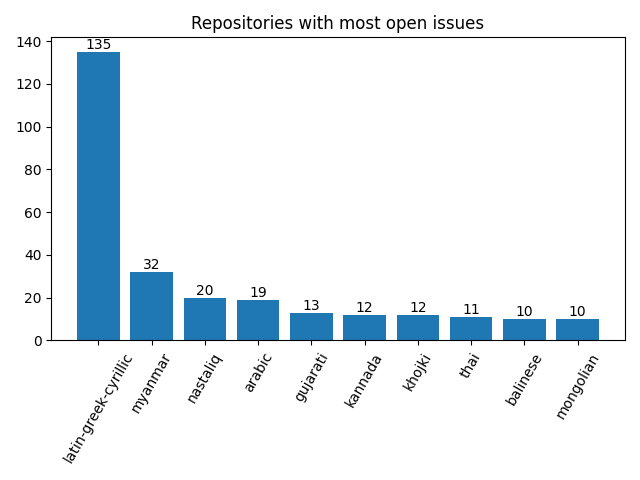
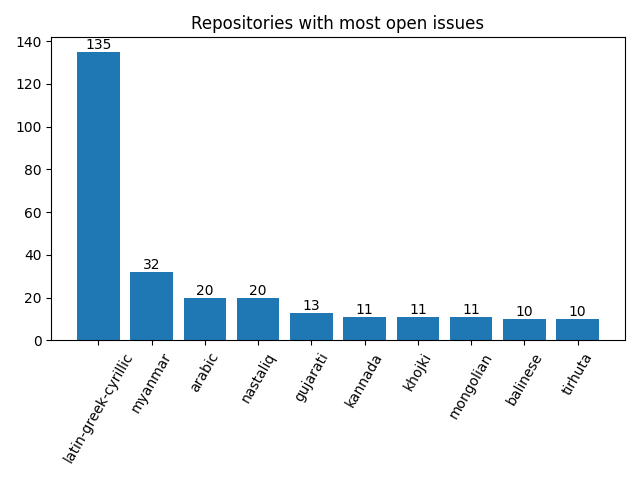
Apply automatic changes

diff --git a/docs/analytics.html b/docs/analytics.html
@@ -99,8 +99,8 @@ td .material-icons { display:inline-flex; vertical-align: top; font-size:1.1rem;
 						</tr>
 						<tr>
 							<td>Jul</td>
-							<td>4</td>
-							<td>0</td>
+							<td>12</td>
+							<td>26</td>
 						</tr>
 					</table>
 				</div>
@@ -130,15 +130,15 @@ td .material-icons { display:inline-flex; vertical-align: top; font-size:1.1rem;
 						</tr>
 						<tr>
 							<td>
-								<a href="http://github.com/notofonts/nastaliq/issues">nastaliq</a>
+								<a href="http://github.com/notofonts/arabic/issues">arabic</a>
 							</td>
 							<td>20</td>
 						</tr>
 						<tr>
 							<td>
-								<a href="http://github.com/notofonts/arabic/issues">arabic</a>
+								<a href="http://github.com/notofonts/nastaliq/issues">nastaliq</a>
 							</td>
-							<td>19</td>
+							<td>20</td>
 						</tr>
 						<tr>
 							<td>
@@ -150,17 +150,17 @@ td .material-icons { display:inline-flex; vertical-align: top; font-size:1.1rem;
 							<td>
 								<a href="http://github.com/notofonts/kannada/issues">kannada</a>
 							</td>
-							<td>12</td>
+							<td>11</td>
 						</tr>
 						<tr>
 							<td>
 								<a href="http://github.com/notofonts/khojki/issues">khojki</a>
 							</td>
-							<td>12</td>
+							<td>11</td>
 						</tr>
 						<tr>
 							<td>
-								<a href="http://github.com/notofonts/thai/issues">thai</a>
+								<a href="http://github.com/notofonts/mongolian/issues">mongolian</a>
 							</td>
 							<td>11</td>
 						</tr>
@@ -172,7 +172,7 @@ td .material-icons { display:inline-flex; vertical-align: top; font-size:1.1rem;
 						</tr>
 						<tr>
 							<td>
-								<a href="http://github.com/notofonts/mongolian/issues">mongolian</a>
+								<a href="http://github.com/notofonts/tirhuta/issues">tirhuta</a>
 							</td>
 							<td>10</td>
 						</tr>
@@ -191,19 +191,19 @@ td .material-icons { display:inline-flex; vertical-align: top; font-size:1.1rem;
 				<tr>
 					<td>1</td>
 					<td>
-						<a href="http://github.com/notofonts/bamum/issues">bamum</a>,  						<a href="http://github.com/notofonts/brahmi/issues">brahmi</a>,  						<a href="http://github.com/notofonts/canadian-aboriginal/issues">canadian-aboriginal</a>,  						<a href="http://github.com/notofonts/coptic/issues">coptic</a>,  						<a href="http://github.com/notofonts/deseret/issues">deseret</a>,  						<a href="http://github.com/notofonts/duployan/issues">duployan</a>,  						<a href="http://github.com/notofonts/elbasan/issues">elbasan</a>,  						<a href="http://github.com/notofonts/ethiopic/issues">ethiopic</a>,  						<a href="http://github.com/notofonts/gunjala-gondi/issues">gunjala-gondi</a>,  						<a href="http://github.com/notofonts/hanunoo/issues">hanunoo</a>,  						<a href="http://github.com/notofonts/kharoshthi/issues">kharoshthi</a>,  						<a href="http://github.com/notofonts/khudawadi/issues">khudawadi</a>,  						<a href="http://github.com/notofonts/meetei-mayek/issues">meetei-mayek</a>,  						<a href="http://github.com/notofonts/miao/issues">miao</a>,  						<a href="http://github.com/notofonts/multani/issues">multani</a>,  						<a href="http://github.com/notofonts/nko/issues">nko</a>,  						<a href="http://github.com/notofonts/old-hungarian-ui/issues">old-hungarian-ui</a>,  						<a href="http://github.com/notofonts/old-italic/issues">old-italic</a>,  						<a href="http://github.com/notofonts/pahawh-hmong/issues">pahawh-hmong</a>,  						<a href="http://github.com/notofonts/rejang/issues">rejang</a>,  						<a href="http://github.com/notofonts/saurashtra/issues">saurashtra</a>,  						<a href="http://github.com/notofonts/sign-writing/issues">sign-writing</a>,  						<a href="http://github.com/notofonts/sogdian/issues">sogdian</a>,  						<a href="http://github.com/notofonts/tagalog/issues">tagalog</a>,  						<a href="http://github.com/notofonts/tai-le/issues">tai-le</a>,  						<a href="http://github.com/notofonts/tai-tham/issues">tai-tham</a>,  						<a href="http://github.com/notofonts/takri/issues">takri</a>,  						<a href="http://github.com/notofonts/tangsa/issues">tangsa</a> 
+						<a href="http://github.com/notofonts/bamum/issues">bamum</a>,  						<a href="http://github.com/notofonts/brahmi/issues">brahmi</a>,  						<a href="http://github.com/notofonts/canadian-aboriginal/issues">canadian-aboriginal</a>,  						<a href="http://github.com/notofonts/coptic/issues">coptic</a>,  						<a href="http://github.com/notofonts/deseret/issues">deseret</a>,  						<a href="http://github.com/notofonts/duployan/issues">duployan</a>,  						<a href="http://github.com/notofonts/elbasan/issues">elbasan</a>,  						<a href="http://github.com/notofonts/elymaic/issues">elymaic</a>,  						<a href="http://github.com/notofonts/georgian/issues">georgian</a>,  						<a href="http://github.com/notofonts/gunjala-gondi/issues">gunjala-gondi</a>,  						<a href="http://github.com/notofonts/hanunoo/issues">hanunoo</a>,  						<a href="http://github.com/notofonts/kharoshthi/issues">kharoshthi</a>,  						<a href="http://github.com/notofonts/khmer/issues">khmer</a>,  						<a href="http://github.com/notofonts/khudawadi/issues">khudawadi</a>,  						<a href="http://github.com/notofonts/lydian/issues">lydian</a>,  						<a href="http://github.com/notofonts/manichaean/issues">manichaean</a>,  						<a href="http://github.com/notofonts/meetei-mayek/issues">meetei-mayek</a>,  						<a href="http://github.com/notofonts/meroitic/issues">meroitic</a>,  						<a href="http://github.com/notofonts/miao/issues">miao</a>,  						<a href="http://github.com/notofonts/multani/issues">multani</a>,  						<a href="http://github.com/notofonts/nko/issues">nko</a>,  						<a href="http://github.com/notofonts/old-hungarian-ui/issues">old-hungarian-ui</a>,  						<a href="http://github.com/notofonts/old-italic/issues">old-italic</a>,  						<a href="http://github.com/notofonts/pahawh-hmong/issues">pahawh-hmong</a>,  						<a href="http://github.com/notofonts/rejang/issues">rejang</a>,  						<a href="http://github.com/notofonts/saurashtra/issues">saurashtra</a>,  						<a href="http://github.com/notofonts/sign-writing/issues">sign-writing</a>,  						<a href="http://github.com/notofonts/sogdian/issues">sogdian</a>,  						<a href="http://github.com/notofonts/tagalog/issues">tagalog</a>,  						<a href="http://github.com/notofonts/tai-le/issues">tai-le</a>,  						<a href="http://github.com/notofonts/tai-tham/issues">tai-tham</a>,  						<a href="http://github.com/notofonts/takri/issues">takri</a>,  						<a href="http://github.com/notofonts/tangsa/issues">tangsa</a>,  						<a href="http://github.com/notofonts/thai/issues">thai</a> 
 					</td>
 				</tr>
 				<tr>
 					<td>2</td>
 					<td>
-						<a href="http://github.com/notofonts/chorasmian/issues">chorasmian</a>,  						<a href="http://github.com/notofonts/dogra/issues">dogra</a>,  						<a href="http://github.com/notofonts/elymaic/issues">elymaic</a>,  						<a href="http://github.com/notofonts/lydian/issues">lydian</a>,  						<a href="http://github.com/notofonts/meroitic/issues">meroitic</a>,  						<a href="http://github.com/notofonts/music/issues">music</a>,  						<a href="http://github.com/notofonts/old-turkic/issues">old-turkic</a>,  						<a href="http://github.com/notofonts/siddham/issues">siddham</a>,  						<a href="http://github.com/notofonts/sundanese/issues">sundanese</a>,  						<a href="http://github.com/notofonts/tamil/issues">tamil</a>,  						<a href="http://github.com/notofonts/tifinagh/issues">tifinagh</a> 
+						<a href="http://github.com/notofonts/chorasmian/issues">chorasmian</a>,  						<a href="http://github.com/notofonts/dogra/issues">dogra</a>,  						<a href="http://github.com/notofonts/music/issues">music</a>,  						<a href="http://github.com/notofonts/old-turkic/issues">old-turkic</a>,  						<a href="http://github.com/notofonts/siddham/issues">siddham</a>,  						<a href="http://github.com/notofonts/sundanese/issues">sundanese</a>,  						<a href="http://github.com/notofonts/tamil/issues">tamil</a>,  						<a href="http://github.com/notofonts/tifinagh/issues">tifinagh</a> 
 					</td>
 				</tr>
 				<tr>
 					<td>3</td>
 					<td>
-						<a href="http://github.com/notofonts/ahom/issues">ahom</a>,  						<a href="http://github.com/notofonts/caucasian-albanian/issues">caucasian-albanian</a>,  						<a href="http://github.com/notofonts/georgian/issues">georgian</a>,  						<a href="http://github.com/notofonts/glagolitic/issues">glagolitic</a>,  						<a href="http://github.com/notofonts/manichaean/issues">manichaean</a>,  						<a href="http://github.com/notofonts/sharada/issues">sharada</a>,  						<a href="http://github.com/notofonts/soyombo/issues">soyombo</a>,  						<a href="http://github.com/notofonts/telugu/issues">telugu</a> 
+						<a href="http://github.com/notofonts/ahom/issues">ahom</a>,  						<a href="http://github.com/notofonts/batak/issues">batak</a>,  						<a href="http://github.com/notofonts/caucasian-albanian/issues">caucasian-albanian</a>,  						<a href="http://github.com/notofonts/glagolitic/issues">glagolitic</a>,  						<a href="http://github.com/notofonts/sharada/issues">sharada</a>,  						<a href="http://github.com/notofonts/soyombo/issues">soyombo</a>,  						<a href="http://github.com/notofonts/telugu/issues">telugu</a> 
 					</td>
 				</tr>
 				<tr>
@@ -215,13 +215,13 @@ td .material-icons { display:inline-flex; vertical-align: top; font-size:1.1rem;
 				<tr>
 					<td>5</td>
 					<td>
-						<a href="http://github.com/notofonts/bengali/issues">bengali</a>,  						<a href="http://github.com/notofonts/bhaiksuki/issues">bhaiksuki</a>,  						<a href="http://github.com/notofonts/egyptian-hieroglyphs/issues">egyptian-hieroglyphs</a>,  						<a href="http://github.com/notofonts/khmer/issues">khmer</a>,  						<a href="http://github.com/notofonts/syloti-nagri/issues">syloti-nagri</a> 
+						<a href="http://github.com/notofonts/bengali/issues">bengali</a>,  						<a href="http://github.com/notofonts/bhaiksuki/issues">bhaiksuki</a>,  						<a href="http://github.com/notofonts/syloti-nagri/issues">syloti-nagri</a> 
 					</td>
 				</tr>
 				<tr>
 					<td>6</td>
 					<td>
-						<a href="http://github.com/notofonts/dives-akuru/issues">dives-akuru</a>,  						<a href="http://github.com/notofonts/hebrew/issues">hebrew</a>,  						<a href="http://github.com/notofonts/kaithi/issues">kaithi</a>,  						<a href="http://github.com/notofonts/old-hungarian/issues">old-hungarian</a>,  						<a href="http://github.com/notofonts/symbols/issues">symbols</a> 
+						<a href="http://github.com/notofonts/dives-akuru/issues">dives-akuru</a>,  						<a href="http://github.com/notofonts/egyptian-hieroglyphs/issues">egyptian-hieroglyphs</a>,  						<a href="http://github.com/notofonts/hebrew/issues">hebrew</a>,  						<a href="http://github.com/notofonts/kaithi/issues">kaithi</a>,  						<a href="http://github.com/notofonts/old-hungarian/issues">old-hungarian</a>,  						<a href="http://github.com/notofonts/symbols/issues">symbols</a> 
 					</td>
 				</tr>
 				<tr>
@@ -245,7 +245,7 @@ td .material-icons { display:inline-flex; vertical-align: top; font-size:1.1rem;
 				<tr>
 					<td>10</td>
 					<td>
-						<a href="http://github.com/notofonts/balinese/issues">balinese</a>,  						<a href="http://github.com/notofonts/mongolian/issues">mongolian</a>,  						<a href="http://github.com/notofonts/tirhuta/issues">tirhuta</a> 
+						<a href="http://github.com/notofonts/balinese/issues">balinese</a>,  						<a href="http://github.com/notofonts/tirhuta/issues">tirhuta</a> 
 					</td>
 				</tr>
 			</table>
@@ -262,13 +262,13 @@ td .material-icons { display:inline-flex; vertical-align: top; font-size:1.1rem;
 							<td>
 									<a href="http://github.com/notofonts/latin-greek-cyrillic/issues">latin-greek-cyrillic</a>: 135, 
 
-									<a href="http://github.com/notofonts/nastaliq/issues">nastaliq</a>: 20, 
+									<a href="http://github.com/notofonts/arabic/issues">arabic</a>: 20, 
 
-									<a href="http://github.com/notofonts/arabic/issues">arabic</a>: 19, 
+									<a href="http://github.com/notofonts/nastaliq/issues">nastaliq</a>: 20, 
 
 									<a href="http://github.com/notofonts/gujarati/issues">gujarati</a>: 13, 
 
-									<a href="http://github.com/notofonts/kannada/issues">kannada</a>: 12, 
+									<a href="http://github.com/notofonts/kannada/issues">kannada</a>: 11, 
 
 									<a href="http://github.com/notofonts/malayalam/issues">malayalam</a>: 8, 
 
@@ -294,23 +294,21 @@ td .material-icons { display:inline-flex; vertical-align: top; font-size:1.1rem;
 							<td>
 									<a href="http://github.com/notofonts/myanmar/issues">myanmar</a>: 32, 
 
-									<a href="http://github.com/notofonts/thai/issues">thai</a>: 11, 
-
 									<a href="http://github.com/notofonts/balinese/issues">balinese</a>: 10, 
 
-									<a href="http://github.com/notofonts/khmer/issues">khmer</a>: 5, 
+									<a href="http://github.com/notofonts/georgian/issues">georgian</a>: 1, 
 
-									<a href="http://github.com/notofonts/georgian/issues">georgian</a>: 3, 
+									<a href="http://github.com/notofonts/khmer/issues">khmer</a>: 1, 
 
-									<a href="http://github.com/notofonts/ethiopic/issues">ethiopic</a>: 1
+									<a href="http://github.com/notofonts/thai/issues">thai</a>: 1
 							</td>
 						</tr>
 						<tr>
 							<td>3</td>
 							<td>
-									<a href="http://github.com/notofonts/khojki/issues">khojki</a>: 12, 
+									<a href="http://github.com/notofonts/khojki/issues">khojki</a>: 11, 
 
-									<a href="http://github.com/notofonts/mongolian/issues">mongolian</a>: 10, 
+									<a href="http://github.com/notofonts/mongolian/issues">mongolian</a>: 11, 
 
 									<a href="http://github.com/notofonts/math/issues">math</a>: 9, 
 
@@ -325,6 +323,8 @@ td .material-icons { display:inline-flex; vertical-align: top; font-size:1.1rem;
 									<a href="http://github.com/notofonts/syriac/issues">syriac</a>: 4, 
 
 									<a href="http://github.com/notofonts/tibetan/issues">tibetan</a>: 4, 
+
+									<a href="http://github.com/notofonts/batak/issues">batak</a>: 3, 
 
 									<a href="http://github.com/notofonts/sharada/issues">sharada</a>: 3, 
 
@@ -380,11 +380,11 @@ td .material-icons { display:inline-flex; vertical-align: top; font-size:1.1rem;
 							<td>
 									<a href="http://github.com/notofonts/tirhuta/issues">tirhuta</a>: 10, 
 
+									<a href="http://github.com/notofonts/egyptian-hieroglyphs/issues">egyptian-hieroglyphs</a>: 6, 
+
 									<a href="http://github.com/notofonts/kaithi/issues">kaithi</a>: 6, 
 
 									<a href="http://github.com/notofonts/old-hungarian/issues">old-hungarian</a>: 6, 
-
-									<a href="http://github.com/notofonts/egyptian-hieroglyphs/issues">egyptian-hieroglyphs</a>: 5, 
 
 									<a href="http://github.com/notofonts/kawi/issues">kawi</a>: 4, 
 
@@ -392,19 +392,19 @@ td .material-icons { display:inline-flex; vertical-align: top; font-size:1.1rem;
 
 									<a href="http://github.com/notofonts/glagolitic/issues">glagolitic</a>: 3, 
 
-									<a href="http://github.com/notofonts/manichaean/issues">manichaean</a>: 3, 
-
 									<a href="http://github.com/notofonts/soyombo/issues">soyombo</a>: 3, 
 
 									<a href="http://github.com/notofonts/dogra/issues">dogra</a>: 2, 
-
-									<a href="http://github.com/notofonts/lydian/issues">lydian</a>: 2, 
 
 									<a href="http://github.com/notofonts/brahmi/issues">brahmi</a>: 1, 
 
 									<a href="http://github.com/notofonts/deseret/issues">deseret</a>: 1, 
 
 									<a href="http://github.com/notofonts/khudawadi/issues">khudawadi</a>: 1, 
+
+									<a href="http://github.com/notofonts/lydian/issues">lydian</a>: 1, 
+
+									<a href="http://github.com/notofonts/manichaean/issues">manichaean</a>: 1, 
 
 									<a href="http://github.com/notofonts/old-hungarian-ui/issues">old-hungarian-ui</a>: 1
 							</td>
@@ -422,15 +422,15 @@ td .material-icons { display:inline-flex; vertical-align: top; font-size:1.1rem;
 
 									<a href="http://github.com/notofonts/chorasmian/issues">chorasmian</a>: 2, 
 
-									<a href="http://github.com/notofonts/elymaic/issues">elymaic</a>: 2, 
-
-									<a href="http://github.com/notofonts/meroitic/issues">meroitic</a>: 2, 
-
 									<a href="http://github.com/notofonts/old-turkic/issues">old-turkic</a>: 2, 
 
 									<a href="http://github.com/notofonts/elbasan/issues">elbasan</a>: 1, 
 
+									<a href="http://github.com/notofonts/elymaic/issues">elymaic</a>: 1, 
+
 									<a href="http://github.com/notofonts/kharoshthi/issues">kharoshthi</a>: 1, 
+
+									<a href="http://github.com/notofonts/meroitic/issues">meroitic</a>: 1, 
 
 									<a href="http://github.com/notofonts/old-italic/issues">old-italic</a>: 1, 
 
